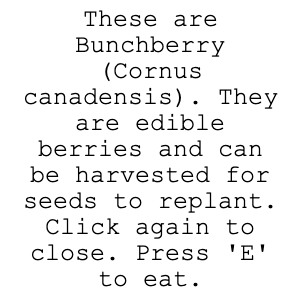
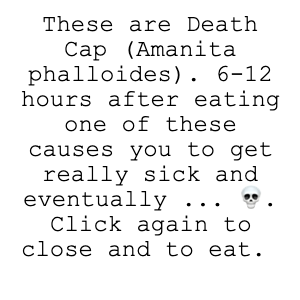
food works

diff --git a/src/Scenes/Scene2.js b/src/Scenes/Scene2.js
@@ -75,7 +75,6 @@ class Scene2 extends Phaser.Scene {
 	}
 	//educational content
 	add_edu() {
-		this.input.keyboard.on('keydown-E', this.type, this);
 		// Berry Bushes
 		this.berryBushCount = 0;
 		this.berryBush = this.add.group();
@@ -111,17 +110,6 @@ class Scene2 extends Phaser.Scene {
 			y += 20;
 			x = 600;
 		}
-	}
-	type() {
-		const foodText = this.add.text(
-			config.width / 2,
-			config.height / 2,
-			"CLICK WHAT YOU WOULD LIKE TO EAT",
-			0xfffff,
-		);
-		setTimeout(() => {
-			foodText.destroy();
-		}, 1500);
 	}
 	//makes the text message box for the edu content
 	create_window(group) {
@@ -628,6 +616,14 @@ class Scene2 extends Phaser.Scene {
 			if (this.visible) {
 				this.berryBushText.destroy();
 				this.visible = false;
+				//eating
+				gameObject.destroy();
+				//updating text
+				this.collected_food += 1;
+				this.foodText.destroy();
+				this.foodText = this.add.text(150, 630, `Food : ${this.collected_food}`);
+				this.foodText.setDepth(100);
+				this.environment_meter_value(1, "minus");
 			} else {
 				this.visible = true;
 				this.create_window("berry-bush");
@@ -636,6 +632,11 @@ class Scene2 extends Phaser.Scene {
 			if (this.visible) {
 				this.poisonMushroomText.destroy();
 				this.visible = false;
+				//eating
+				gameObject.destroy();
+				this.environment_meter_value(1, "minus");
+				//health
+				this.updatePlayerBars(this.health_bar, 15, "minus");	
 			} else {
 				this.visible = true;
 				this.create_window("poisonous-mushroom");
